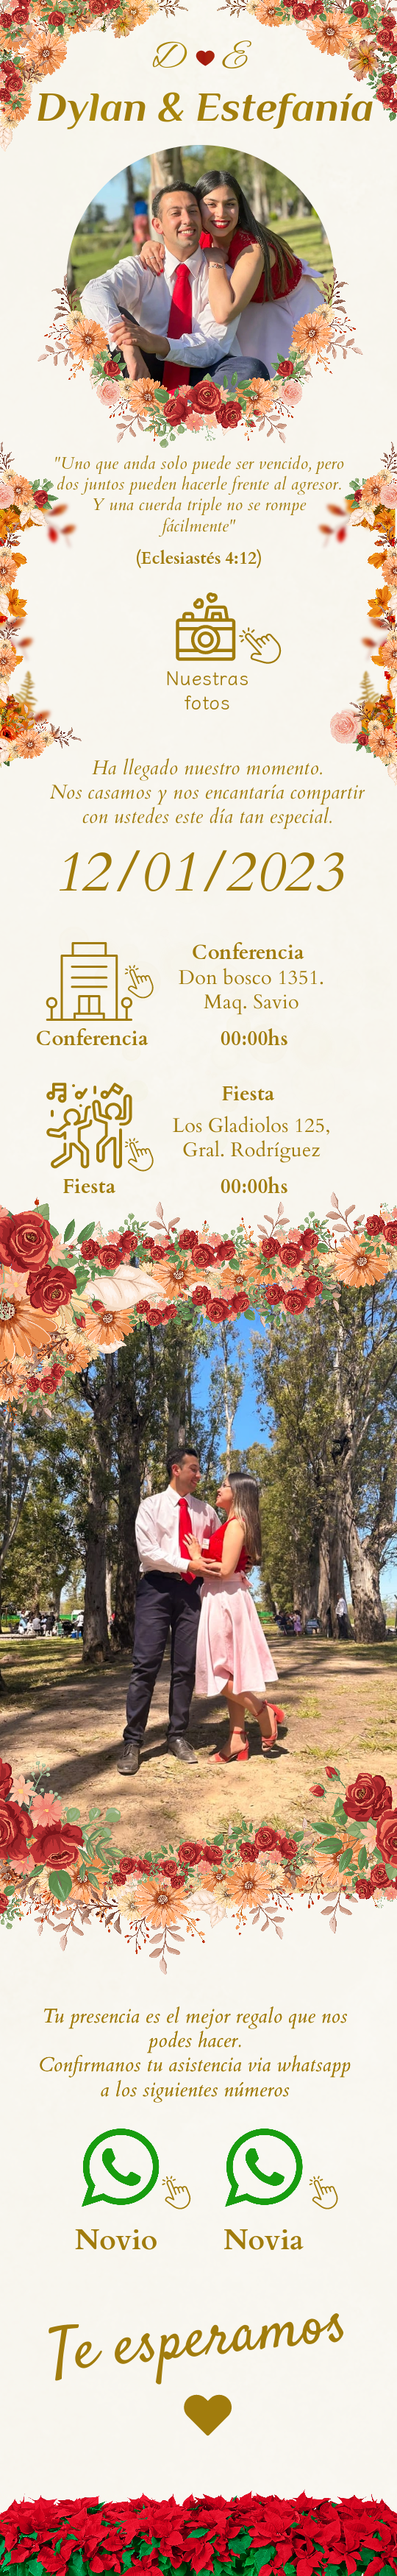
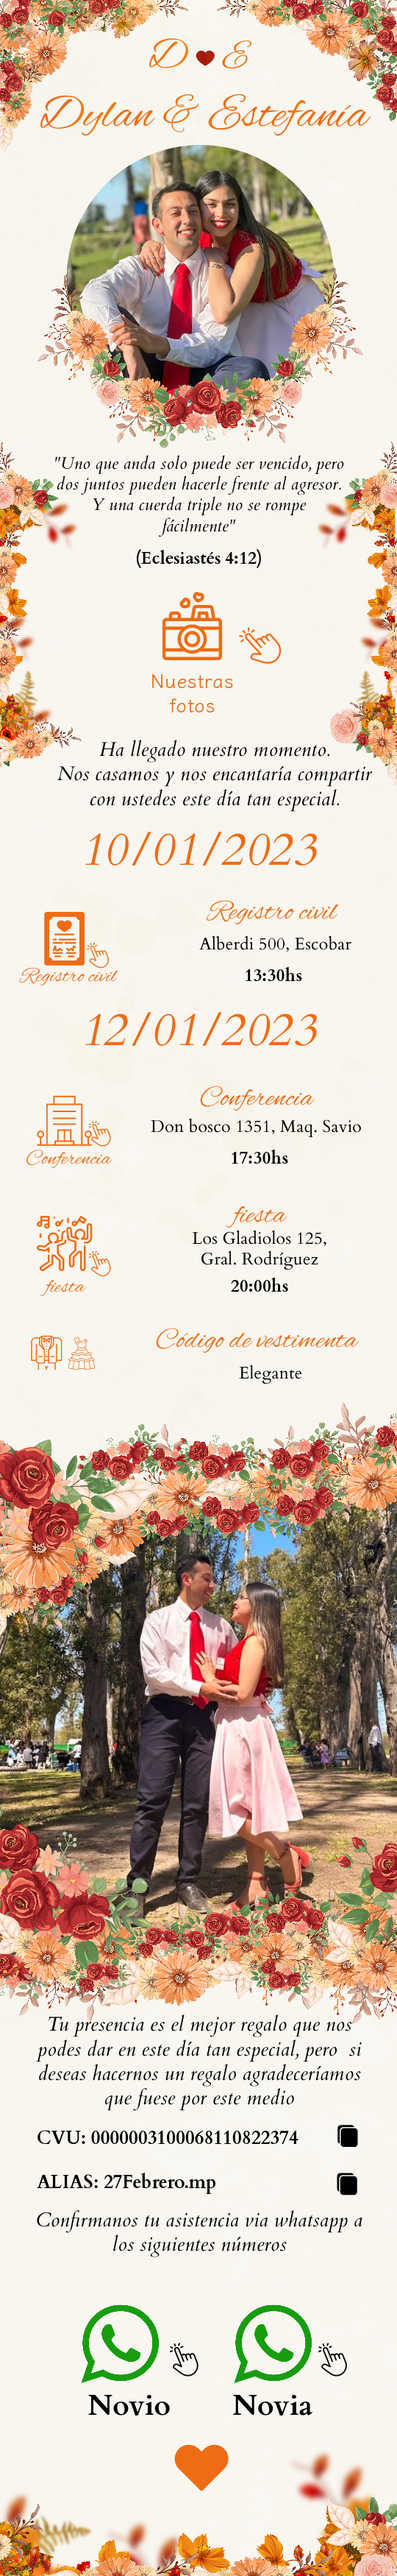
feat: add multimedia

diff --git a/src/app/app.component.scss b/src/app/app.component.scss
@@ -16,7 +16,24 @@
     // border: 5px solid #111111;
     margin-bottom: 321%;
     margin-left: 10%;
-    z-index: 4;
+    z-index: 7;
+  }
+}
+.container-box-civil{
+  position: absolute;
+  width: 100%;
+  height: 100%;
+  display: flex;
+  justify-content: center;
+  align-items: center;
+  .box-civil{
+    width: 30%;
+    height: 2%;
+    padding-bottom: 30%;
+    // border: 5px solid #111111;
+    margin-bottom: 170%;
+    margin-left: -65%;
+    z-index: 6;
   }
 }
 .container-box-conferencia{
@@ -27,13 +44,13 @@
   justify-content: center;
   align-items: center;
   .box-conferencia{
-    width: 40%;
-    height: 6%;
+    width: 30%;
+    height: 2%;
     padding-bottom: 30%;
     // border: 5px solid #111111;
-    margin-bottom: 150%;
-    margin-left: -50%;
-    z-index: 3;
+    margin-bottom: 80%;
+    margin-left: -65%;
+    z-index: 5;
   }
 }
 .container-box-fiesta{
@@ -44,12 +61,44 @@
   justify-content: center;
   align-items: center;
   .box-fiesta{
-    width: 40%;
-    height: 6%;
+    width: 30%;
+    height: 2%;
     padding-bottom: 30%;
     // border: 5px solid #111111;
-    margin-bottom: 74%;
-    margin-left: -50%;
+    margin-bottom: 20%;
+    margin-left: -65%;
+    z-index: 4;
+  }
+}
+.container-box-cvu{
+  position: absolute;
+  width: 100%;
+  height: 100%;
+  display: flex;
+  justify-content: center;
+  align-items: center;
+  .box-cvu{
+    width: 90%;
+    height: 1%;
+    padding-bottom: 7%;
+    // border: 5px solid #111111;
+    margin-bottom: -427%;
+    z-index: 3;
+  }
+}
+.container-box-alias{
+  position: absolute;
+  width: 100%;
+  height: 100%;
+  display: flex;
+  justify-content: center;
+  align-items: center;
+  .box-alias{
+    width: 90%;
+    height: 1%;
+    padding-bottom: 7%;
+    // border: 5px solid #111111;
+    margin-bottom: -451%;
     z-index: 2;
   }
 }
@@ -65,8 +114,8 @@
     height: 6%;
     padding-bottom: 30%;
     // border: 5px solid #111111;
-    margin-bottom: -455%;
-    margin-left: -40%;
+    margin-bottom: -540%;
+    margin-left: -35%;
     z-index: 1;
   }
 }
@@ -82,8 +131,8 @@
     height: 6%;
     padding-bottom: 30%;
     // border: 5px solid #111111;
-    margin-bottom: -455%;
-    margin-left: 40%;
+    margin-bottom: -540%;
+    margin-left: 45%;
     z-index: 1;
   }
 }

diff --git a/.firebase/invitaciondylanestefania/hosting/index.html b/.firebase/invitaciondylanestefania/hosting/index.html
@@ -1,0 +1,21 @@
+<!doctype html>
+<html lang="es" data-critters-container>
+<head>
+  <meta charset="utf-8">
+  <title>Dylan y Estefania te invitan a su boda</title>
+  <base href="/">
+  <meta name="viewport" content="width=device-width, initial-scale=1">
+  <link rel="icon" type="image/x-icon" href="favicon.ico">
+  <link href="https://cdn.jsdelivr.net/npm/bootstrap@5.2.3/dist/css/bootstrap.min.css" rel="stylesheet" integrity="sha384-rbsA2VBKQhggwzxH7pPCaAqO46MgnOM80zW1RWuH61DGLwZJEdK2Kadq2F9CUG65" crossorigin="anonymous">
+  <link rel="apple-touch-icon" sizes="180x180" href="./assets/favicon/apple-touch-icon.png">
+  <link rel="icon" type="image/png" sizes="32x32" href="./assets/favicon/favicon-32x32.png">
+  <link rel="icon" type="image/png" sizes="16x16" href="./assets/favicon/favicon-16x16.png">
+  <link rel="manifest" href="./assets/favicon/site.webmanifest">
+  <meta name="msapplication-TileColor" content="#da532c">
+  <meta name="theme-color" content="#ffffff">
+<link rel="stylesheet" href="styles.ef46db3751d8e999.css"></head>
+<body>
+  <app-root></app-root>
+  <script src="https://cdn.jsdelivr.net/npm/bootstrap@5.2.3/dist/js/bootstrap.bundle.min.js" integrity="sha384-kenU1KFdBIe4zVF0s0G1M5b4hcpxyD9F7jL+jjXkk+Q2h455rYXK/7HAuoJl+0I4" crossorigin="anonymous"></script>
+<script src="runtime.f8218088a9ce475f.js" type="module"></script><script src="polyfills.5e45f6db4b531594.js" type="module"></script><script src="main.341373a63fee1d2b.js" type="module"></script></body>
+</html>
